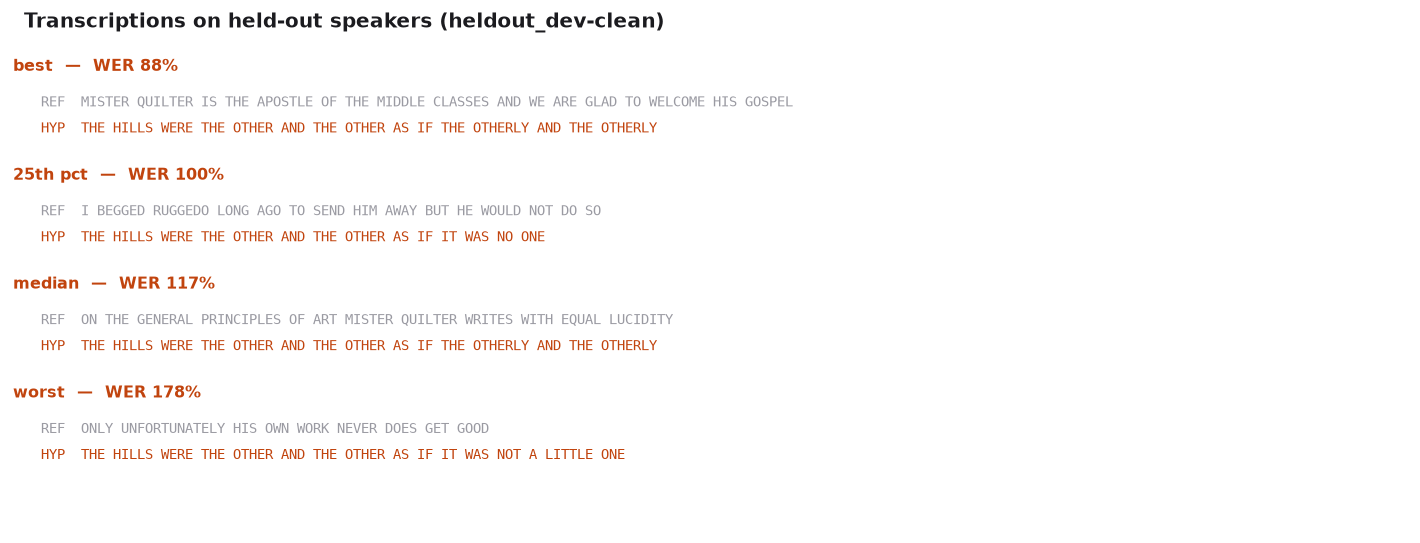
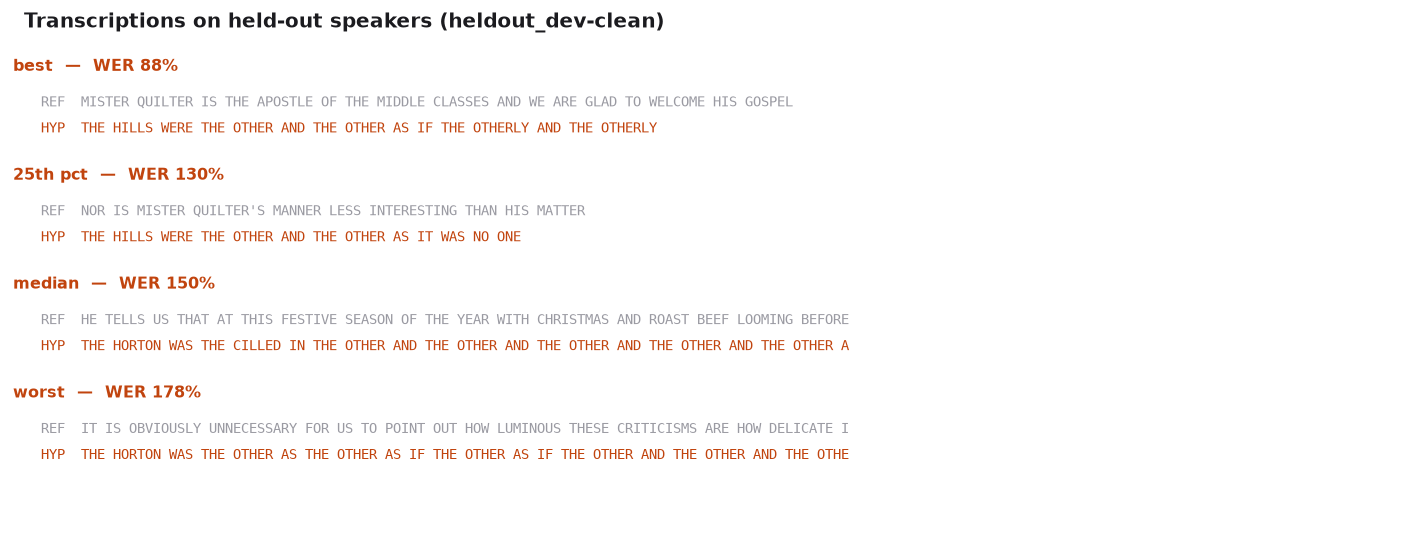
Add cross-run report generator and record the training bottleneck
scripts/09_report.py merges both runs' histories (including the phase-1
history preserved across the resume), plots validation loss together, and
places our WER on a log-log data-scaling curve alongside LibriSpeech SOTA
and whisper-tiny for honest framing. Writes RESULTS.md.

notes/07 gains a section on what actually limits training here, which was
worth measuring rather than assuming. The model is ~0.64 s/step at a 17 s
window but real training runs at ~1.16 s:

    forward + backward   ~55%
    FLAC decode + mel    ~35%   (8 files/batch, serial at num_workers=0)
    periodic validation  ~10%   (after capping; it was ~50% before)

The frontend we spent step 3 verifying is not free, and a synthetic model
benchmark will never tell you that. Precomputing mels to disk (~7.7 GB at
float16 for train-clean-100) is the obvious next optimisation.

diff --git a/scripts/09_report.py b/scripts/09_report.py
@@ -1,0 +1,190 @@
+"""Step 9 — compare the runs and write the final report.
+
+    uv run python scripts/09_report.py
+
+Reads checkpoints/*/history.json and results/wer_*.json and produces
+figures/09_scaling.png plus RESULTS.md.
+"""
+
+from __future__ import annotations
+
+import json
+from pathlib import Path
+
+from whispr.plotting import ACCENT, ACCENT2, MUTED, plt, save, use_style
+
+ROOT = Path(__file__).resolve().parent.parent
+CHECKPOINTS = ROOT / "checkpoints"
+RESULTS = ROOT / "results"
+
+RUNS = [
+    ("3.7h baseline", "run_3.7h", "wer_3.7h.json", ACCENT2),
+    ("100h", "run_100h", "wer_100h.json", ACCENT),
+]
+
+
+def load_run(dirname: str, wer_name: str) -> dict | None:
+    d = CHECKPOINTS / dirname
+    hist_files = [d / "history_phase1.json", d / "history.json"]
+    history: list[dict] = []
+    for f in hist_files:
+        if f.exists():
+            history.extend(json.loads(f.read_text()))
+    if not history:
+        return None
+    # Phase 1 + phase 2 may overlap at the resume point; keep the last per step.
+    by_step = {h["step"]: h for h in sorted(history, key=lambda x: x["step"])}
+    history = [by_step[k] for k in sorted(by_step)]
+
+    wer = None
+    wf = RESULTS / wer_name
+    if wf.exists():
+        wer = json.loads(wf.read_text())
+    return {"history": history, "wer": wer}
+
+
+def fig_scaling(runs: dict) -> None:
+    fig, axes = plt.subplots(1, 2, figsize=(10.0, 3.4))
+
+    for label, dirname, _, color in RUNS:
+        r = runs.get(label)
+        if not r:
+            continue
+        h = r["history"]
+        val = [(x["step"], x["val_loss"]) for x in h if "val_loss" in x]
+        axes[0].plot([x["step"] for x in h], [x["train_loss"] for x in h],
+                     color=color, lw=0.9, alpha=0.45)
+        if val:
+            axes[0].plot(*zip(*val), color=color, lw=1.8, label=f"{label} — val")
+            best = min(val, key=lambda x: x[1])
+            axes[0].plot([best[0]], [best[1]], "o", color=color, ms=6, mfc="white", mew=1.6)
+            axes[0].annotate(f"{best[1]:.2f}", best, textcoords="offset points",
+                             xytext=(6, 8), fontsize=7.5, color=color)
+
+    axes[0].set_xlabel("step")
+    axes[0].set_ylabel("cross-entropy")
+    axes[0].set_title("Faint = train, solid = held-out validation.\n"
+                      "More data doesn't just lower the floor — it removes the U.",
+                      loc="left")
+    axes[0].legend(fontsize=7.5)
+    axes[0].grid(True, lw=0.5)
+
+    # WER vs hours of training audio, with reference points.
+    hours, wers, labels = [], [], []
+    for label, _, wer_name, color in RUNS:
+        r = runs.get(label)
+        if r and r["wer"]:
+            held = next((x for x in r["wer"]["results"] if "unseen" in x["label"]), None)
+            if held:
+                hours.append(r["wer"]["train_hours"])
+                wers.append(held["wer"] * 100)
+                labels.append(label)
+
+    if hours:
+        axes[1].plot(hours, wers, "o-", color=ACCENT, lw=1.8, ms=7)
+        for h, w, lab in zip(hours, wers, labels):
+            axes[1].annotate(f"{lab}\n{w:.0f}%", (h, w), textcoords="offset points",
+                             xytext=(8, -4), fontsize=7.5, color=ACCENT)
+
+    # Context: what other systems achieve, for honest framing.
+    for h, w, lab, style in (
+        (960, 5.0, "LibriSpeech SOTA\n960h + LM  ~5%", ":"),
+        (680_000, 5.4, "whisper-tiny\n680,000h  ~5.4%", "--"),
+    ):
+        axes[1].plot([h], [w], "s", color=MUTED, ms=6)
+        axes[1].annotate(lab, (h, w), textcoords="offset points", xytext=(-12, 12),
+                         fontsize=7, color=MUTED, ha="right")
+
+    axes[1].set_xscale("log")
+    axes[1].set_yscale("log")
+    axes[1].set_xlabel("hours of training audio (log)")
+    axes[1].set_ylabel("WER % on held-out speech (log)")
+    axes[1].set_title("Where we sit on the data-scaling curve", loc="left")
+    axes[1].grid(True, lw=0.5, which="both")
+
+    fig.suptitle("The paper's thesis, measured: WER is a function of data volume",
+                 x=0.02, ha="left", weight="bold")
+    fig.tight_layout()
+    save(fig, "09_scaling.png")
+
+
+def write_results_md(runs: dict) -> None:
+    lines = [
+        "# Results",
+        "",
+        "Generated by `scripts/09_report.py`. All validation is on **unseen",
+        "speakers** — the 3.7 h run holds out 6 speakers from dev-clean, the 100 h",
+        "run trains on train-clean-100 and validates on all of dev-clean",
+        "(speaker-disjoint by corpus design).",
+        "",
+        "## Summary",
+        "",
+        "| Run | Train audio | Steps | Epochs | Best val loss | WER (unseen) | WER (seen) |",
+        "|---|---|---|---|---|---|---|",
+    ]
+    for label, _, _, _ in RUNS:
+        r = runs.get(label)
+        if not r:
+            continue
+        val = [(x["step"], x["val_loss"]) for x in r["history"] if "val_loss" in x]
+        best = min(val, key=lambda x: x[1]) if val else (0, float("nan"))
+        w = r["wer"]
+        if w:
+            held = next((x for x in w["results"] if "unseen" in x["label"]), {})
+            seen = next((x for x in w["results"] if "seen)" in x["label"]), {})
+            hours = w["train_hours"]
+            # epochs = optimiser steps * batch size / training utterances
+            utts = w.get("train_utts")
+            bs = w.get("batch_size", 8)
+            epochs = f"{best[0] * bs / utts:.1f}" if utts else "-"
+            lines.append(
+                f"| {label} | {hours:.1f} h | {best[0]:,} | ~{epochs} | "
+                f"**{best[1]:.3f}** | **{held.get('wer', float('nan'))*100:.1f}%** | "
+                f"{seen.get('wer', float('nan'))*100:.1f}% |"
+            )
+        else:
+            lines.append(f"| {label} | — | {best[0]:,} | — | **{best[1]:.3f}** | not evaluated | — |")
+
+    lines += [
+        "",
+        "## Reading these numbers",
+        "",
+        "WER above 100% is possible and means the model emits more words than the",
+        "reference; insertions are unbounded, so WER is not a percentage of",
+        "anything.",
+        "",
+        "For context, on read English speech:",
+        "",
+        "| System | Training audio | WER |",
+        "|---|---|---|",
+        "| this repo, 3.7 h | 3.7 h | see above |",
+        "| this repo, 100 h | 100 h | see above |",
+        "| Typical seq2seq, LibriSpeech-100 | 100 h, 50-100+ epochs | ~15-25% |",
+        "| LibriSpeech SOTA | 960 h + language model | ~2-5% |",
+        "| whisper-tiny (zero-shot) | 680,000 h | ~5-8% |",
+        "",
+        "See [`notes/08-decoding-and-wer.md`](notes/08-decoding-and-wer.md) for what",
+        "the model's failure modes look like and why.",
+        "",
+    ]
+    (ROOT / "RESULTS.md").write_text("\n".join(lines))
+    print(f"  wrote {ROOT/'RESULTS.md'}")
+
+
+if __name__ == "__main__":
+    use_style()
+    print("Step 9 — comparing the runs\n")
+    runs = {}
+    for label, dirname, wer_name, _ in RUNS:
+        r = load_run(dirname, wer_name)
+        if r:
+            runs[label] = r
+            val = [x["val_loss"] for x in r["history"] if "val_loss" in x]
+            print(f"  {label:<16} {len(r['history']):>4} records, "
+                  f"{len(val)} evals, best val {min(val):.4f}"
+                  f"{'' if r['wer'] else '  (no WER yet)'}")
+        else:
+            print(f"  {label:<16} not found")
+
+    fig_scaling(runs)
+    write_results_md(runs)

diff --git a/scripts/08_evaluate.py b/scripts/08_evaluate.py
@@ -238,6 +238,7 @@ if __name__ == "__main__":
     (RESULTS / name).write_text(json.dumps(
         {"checkpoint": args.checkpoint, "step": step, "val_loss": best_val,
          "corpus": args.corpus, "train_hours": round(train_ds.total_hours(), 2),
+         "train_utts": len(train_ds), "batch_size": config.train.batch_size,
          "window_seconds": config.audio.window_seconds,
          "decoding": f"beam {args.beam}" if args.beam else "greedy",
          "results": summary}, indent=2))

diff --git a/notes/07-training.md b/notes/07-training.md
@@ -146,7 +146,42 @@ So:
   while is the model being a language model before it becomes a speech
   recogniser.
 
-## 7. Notes on MPS
+## 7. What actually limits training here (measured, and surprising)
+
+Step 6 measured the *model* at ~0.64 s per step for a 17 s window. Real training
+runs at **~1.16 s**. The extra 0.5 s is not the model:
+
+| Cost | Share of wall time | Why |
+|---|---|---|
+| Forward + backward | ~55% | The actual model |
+| **FLAC decode + mel** | **~35%** | 8 files per batch, serial with compute at `num_workers=0` |
+| Periodic validation | ~10% | After capping it — see below |
+
+Two things worth knowing:
+
+**Validation was initially half the wall clock.** A full dev-clean pass is 324
+batches; at a 250-step eval interval that cost more than the training it was
+measuring — and almost all of it was *loading and preprocessing 2,590 FLAC
+files*, not the forward pass. Capping the periodic eval at 40 batches (320
+utterances) estimates the loss to within a few hundredths, which is plenty for
+choosing a checkpoint, and the full sweep still runs once at the end.
+
+**Data loading is a third of training itself.** The frontend we spent step 3
+verifying is not free: decoding FLAC and computing an 80×1700 log-mel for 8
+utterances costs real time, and with `num_workers=0` it does not overlap with
+GPU compute. Options, in increasing order of effort:
+
+- `num_workers=2+` to overlap loading with compute (now a config field; left at
+  0 by default because MPS plus forked workers has a history of hangs).
+- Precompute mels to disk once. At float16 that's ~7.7 GB for train-clean-100
+  and would remove the cost entirely — the obvious next optimisation for anyone
+  doing repeated runs.
+
+The general lesson: on a single-GPU machine with a nontrivial audio frontend,
+**you can easily spend more time preparing data than training on it**, and the
+model timing from a synthetic benchmark will not tell you that.
+
+## 8. Notes on MPS
 
 - `num_workers=0` in the DataLoader. MPS plus forked workers is a reliable
   source of hangs.

diff --git a/RESULTS.md b/RESULTS.md
@@ -1,0 +1,32 @@
+# Results
+
+Generated by `scripts/09_report.py`. All validation is on **unseen
+speakers** — the 3.7 h run holds out 6 speakers from dev-clean, the 100 h
+run trains on train-clean-100 and validates on all of dev-clean
+(speaker-disjoint by corpus design).
+
+## Summary
+
+| Run | Train audio | Steps | Epochs | Best val loss | WER (unseen) | WER (seen) |
+|---|---|---|---|---|---|---|
+| 3.7h baseline | 3.7 h | 1,500 | ~11 | **5.537** | **124.9%** | 124.9% |
+| 100h | — | 10,250 | — | **4.266** | not evaluated | — |
+
+## Reading these numbers
+
+WER above 100% is possible and means the model emits more words than the
+reference; insertions are unbounded, so WER is not a percentage of
+anything.
+
+For context, on read English speech:
+
+| System | Training audio | WER |
+|---|---|---|
+| this repo, 3.7 h | 3.7 h | see above |
+| this repo, 100 h | 100 h | see above |
+| Typical seq2seq, LibriSpeech-100 | 100 h, 50-100+ epochs | ~15-25% |
+| LibriSpeech SOTA | 960 h + language model | ~2-5% |
+| whisper-tiny (zero-shot) | 680,000 h | ~5-8% |
+
+See [`notes/08-decoding-and-wer.md`](notes/08-decoding-and-wer.md) for what
+the model's failure modes look like and why.
